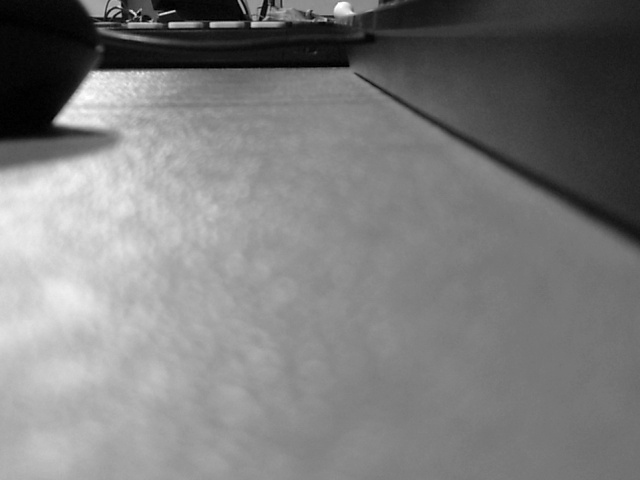
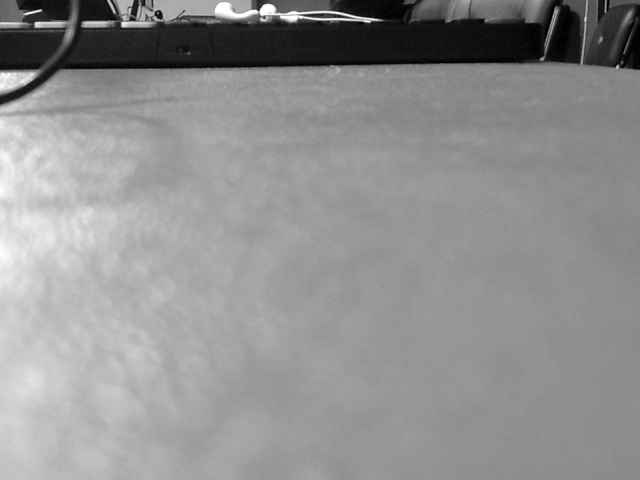
Modified file push

diff --git a/object_detection.py b/object_detection.py
@@ -7,52 +7,35 @@ import time
 
 CAMERA_PATH = "/dev/video0"
 
+# Minimum contour area to be considered an object
 MIN_OBJECT_AREA = 1500
 
+# Performance thresholds
 FPS_THRESHOLD = 15.0
 LATENCY_THRESHOLD_MS = 100.0
 OBJECT_COUNT_THRESHOLD = 5
 
 
 # ==========================================
-# Open webcam using V4L2
+# Open webcam
 # ==========================================
 
-cap = cv2.VideoCapture(
-    CAMERA_PATH,
-    cv2.CAP_V4L2
-)
+cap = cv2.VideoCapture(CAMERA_PATH)
 
 if not cap.isOpened():
     print("ERROR: Cannot open webcam")
     exit()
 
-# Set camera resolution
-cap.set(cv2.CAP_PROP_FRAME_WIDTH, 640)
-cap.set(cv2.CAP_PROP_FRAME_HEIGHT, 480)
-
-print("C270 webcam connected!")
+print("Webcam started")
 print("OpenCV object detection running...")
-print("Saving result to object_detection.jpg")
+print("Press 'q' to quit")
 
 
 # ==========================================
 # Background subtraction
 # ==========================================
 
-background_subtractor = cv2.createBackgroundSubtractorMOG2(
-    history=500,
-    varThreshold=50,
-    detectShadows=True
-)
-
-
-# ==========================================
-# FPS variables
-# ==========================================
-
-previous_time = time.perf_counter()
-
+background_subtractor = cv2.createBackgroundSubtractorMOG2(*/
 
 # ==========================================
 # Main loop
@@ -60,6 +43,7 @@ previous_time = time.perf_counter()
 
 while True:
 
+    # Start timing
     start_time = time.perf_counter()
 
     # --------------------------------------
@@ -69,24 +53,25 @@ while True:
     ret, frame = cap.read()
 
     if not ret:
-        print("\nERROR: Cannot read webcam frame")
+        print("ERROR: Cannot read webcam frame")
         break
 
     # --------------------------------------
     # Convert to grayscale
     # --------------------------------------
 
-    gray = cv2.cvtColor(
-        frame,
-        cv2.COLOR_BGR2GRAY
-    )
+    gray = cv2.cvtColor(frame, cv2.COLOR_BGR2GRAY)
 
     # --------------------------------------
     # Background subtraction
     # --------------------------------------
 
     foreground_mask = background_subtractor.apply(gray)
+     
 
+
+
+     
     # --------------------------------------
     # Remove shadows and noise
     # --------------------------------------
@@ -135,6 +120,7 @@ while True:
 
         area = cv2.contourArea(contour)
 
+        # Ignore small regions/noise
         if area < MIN_OBJECT_AREA:
             continue
 
@@ -155,7 +141,7 @@ while True:
         cv2.putText(
             frame,
             f"Object {object_count}",
-            (x, max(y - 10, 20)),
+            (x, y - 10),
             cv2.FONT_HERSHEY_SIMPLEX,
             0.6,
             (0, 255, 0),
@@ -168,9 +154,7 @@ while True:
 
     end_time = time.perf_counter()
 
-    latency_ms = (
-        end_time - start_time
-    ) * 1000
+    latency_ms = (end_time - start_time) * 1000
 
     # --------------------------------------
     # Calculate FPS
@@ -178,14 +162,10 @@ while True:
 
     current_time = time.perf_counter()
 
-    elapsed_time = (
-        current_time - previous_time
-    )
+    elapsed_time = current_time - previous_time
 
     if elapsed_time > 0:
         fps = 1.0 / elapsed_time
-    else:
-        fps = 0.0
 
     previous_time = current_time
 
@@ -195,23 +175,15 @@ while True:
 
     fps_pass = fps >= FPS_THRESHOLD
 
-    latency_pass = (
-        latency_ms <= LATENCY_THRESHOLD_MS
-    )
+    latency_pass = latency_ms <= LATENCY_THRESHOLD_MS
 
-    count_pass = (
-        object_count <= OBJECT_COUNT_THRESHOLD
-    )
+    count_pass = object_count <= OBJECT_COUNT_THRESHOLD
 
     # --------------------------------------
-    # FPS
+    # FPS display
     # --------------------------------------
 
-    fps_color = (
-        (0, 255, 0)
-        if fps_pass
-        else (0, 0, 255)
-    )
+    fps_color = (0, 255, 0) if fps_pass else (0, 0, 255)
 
     cv2.putText(
         frame,
@@ -225,7 +197,7 @@ while True:
     )
 
     # --------------------------------------
-    # Latency
+    # Latency display
     # --------------------------------------
 
     latency_color = (
@@ -246,7 +218,7 @@ while True:
     )
 
     # --------------------------------------
-    # Object count
+    # Object count display
     # --------------------------------------
 
     count_color = (
@@ -267,7 +239,7 @@ while True:
     )
 
     # --------------------------------------
-    # Threshold information
+    # Display threshold values
     # --------------------------------------
 
     cv2.putText(
@@ -282,8 +254,7 @@ while True:
 
     cv2.putText(
         frame,
-        f"Latency Threshold: "
-        f"{LATENCY_THRESHOLD_MS:.0f} ms",
+        f"Latency Threshold: {LATENCY_THRESHOLD_MS:.0f} ms",
         (20, 150),
         cv2.FONT_HERSHEY_SIMPLEX,
         0.55,
@@ -293,8 +264,7 @@ while True:
 
     cv2.putText(
         frame,
-        f"Count Threshold: "
-        f"{OBJECT_COUNT_THRESHOLD}",
+        f"Count Threshold: {OBJECT_COUNT_THRESHOLD}",
         (20, 175),
         cv2.FONT_HERSHEY_SIMPLEX,
         0.55,
@@ -303,30 +273,38 @@ while True:
     )
 
     # --------------------------------------
-    # Save processed frame
+    # Show detection result
     # --------------------------------------
 
-    cv2.imwrite(
-        "object_detection.jpg",
+    cv2.imshow(
+        "Object Detection",
         frame
     )
 
-    # Save grayscale frame
-    cv2.imwrite(
-        "grayscale.jpg",
+    # --------------------------------------
+    # Show grayscale separately
+    # --------------------------------------
+
+    cv2.imshow(
+        "Grayscale",
         gray
     )
 
     # --------------------------------------
-    # Terminal status
+    # Show foreground mask
     # --------------------------------------
 
-    print(
-        f"FPS: {fps:.1f} | "
-        f"Latency: {latency_ms:.1f} ms | "
-        f"Objects: {object_count}",
-        end="\r"
+    cv2.imshow(
+        "Foreground Mask",
+        threshold_mask
     )
+
+    # --------------------------------------
+    # Press Q to quit
+    # --------------------------------------
+
+    if cv2.waitKey(1) & 0xFF == ord("q"):
+        break
 
 
 # ==========================================
@@ -334,5 +312,6 @@ while True:
 # ==========================================
 
 cap.release()
+cv2.destroyAllWindows()
 
 print("\nObject detection stopped.")
